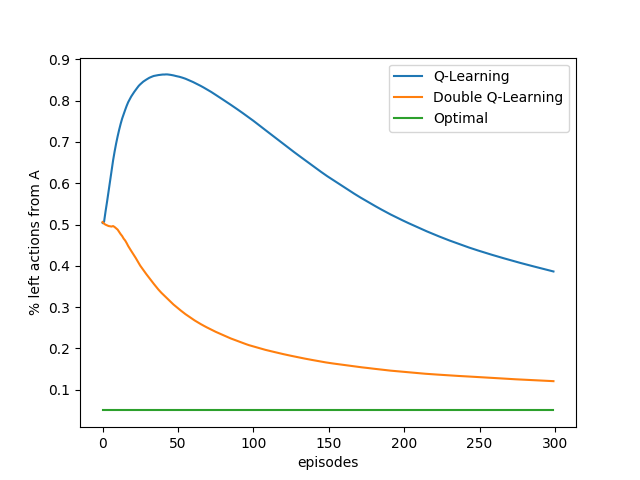
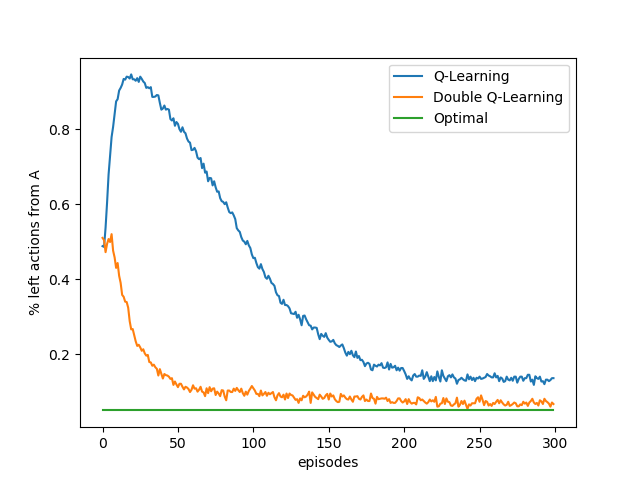
Some revision suggestions in Maximization_bias's Problem

diff --git a/chapter06/maximization_bias.py b/chapter06/maximization_bias.py
@@ -90,7 +90,7 @@ def q_learning(q1, q2=None):
             else:
                 active_q = q2
                 target_q = q1
-            best_action = np.argmax(active_q[next_state])
+            best_action = np.random.choice([action_ for action_, value_ in enumerate(active_q[next_state]) if value_ == np.max(active_q[next_state])])
             target = target_q[next_state][best_action]
 
         # Q-Learning update
@@ -113,8 +113,8 @@ def figure_6_7():
         for ep in range(0, episodes):
             left_counts_q[run, ep] = q_learning(q)
             left_counts_double_q[run, ep] = q_learning(q1, q2)
-    left_counts_q = np.add.accumulate(left_counts_q, axis=1).mean(axis=0) / np.arange(1, episodes + 1)
-    left_counts_double_q = np.add.accumulate(left_counts_double_q, axis=1).mean(axis=0) / np.arange(1, episodes + 1)
+    left_counts_q = left_counts_q.mean(axis=0)
+    left_counts_double_q = left_counts_double_q.mean(axis=0)
 
     plt.plot(left_counts_q, label='Q-Learning')
     plt.plot(left_counts_double_q, label='Double Q-Learning')
